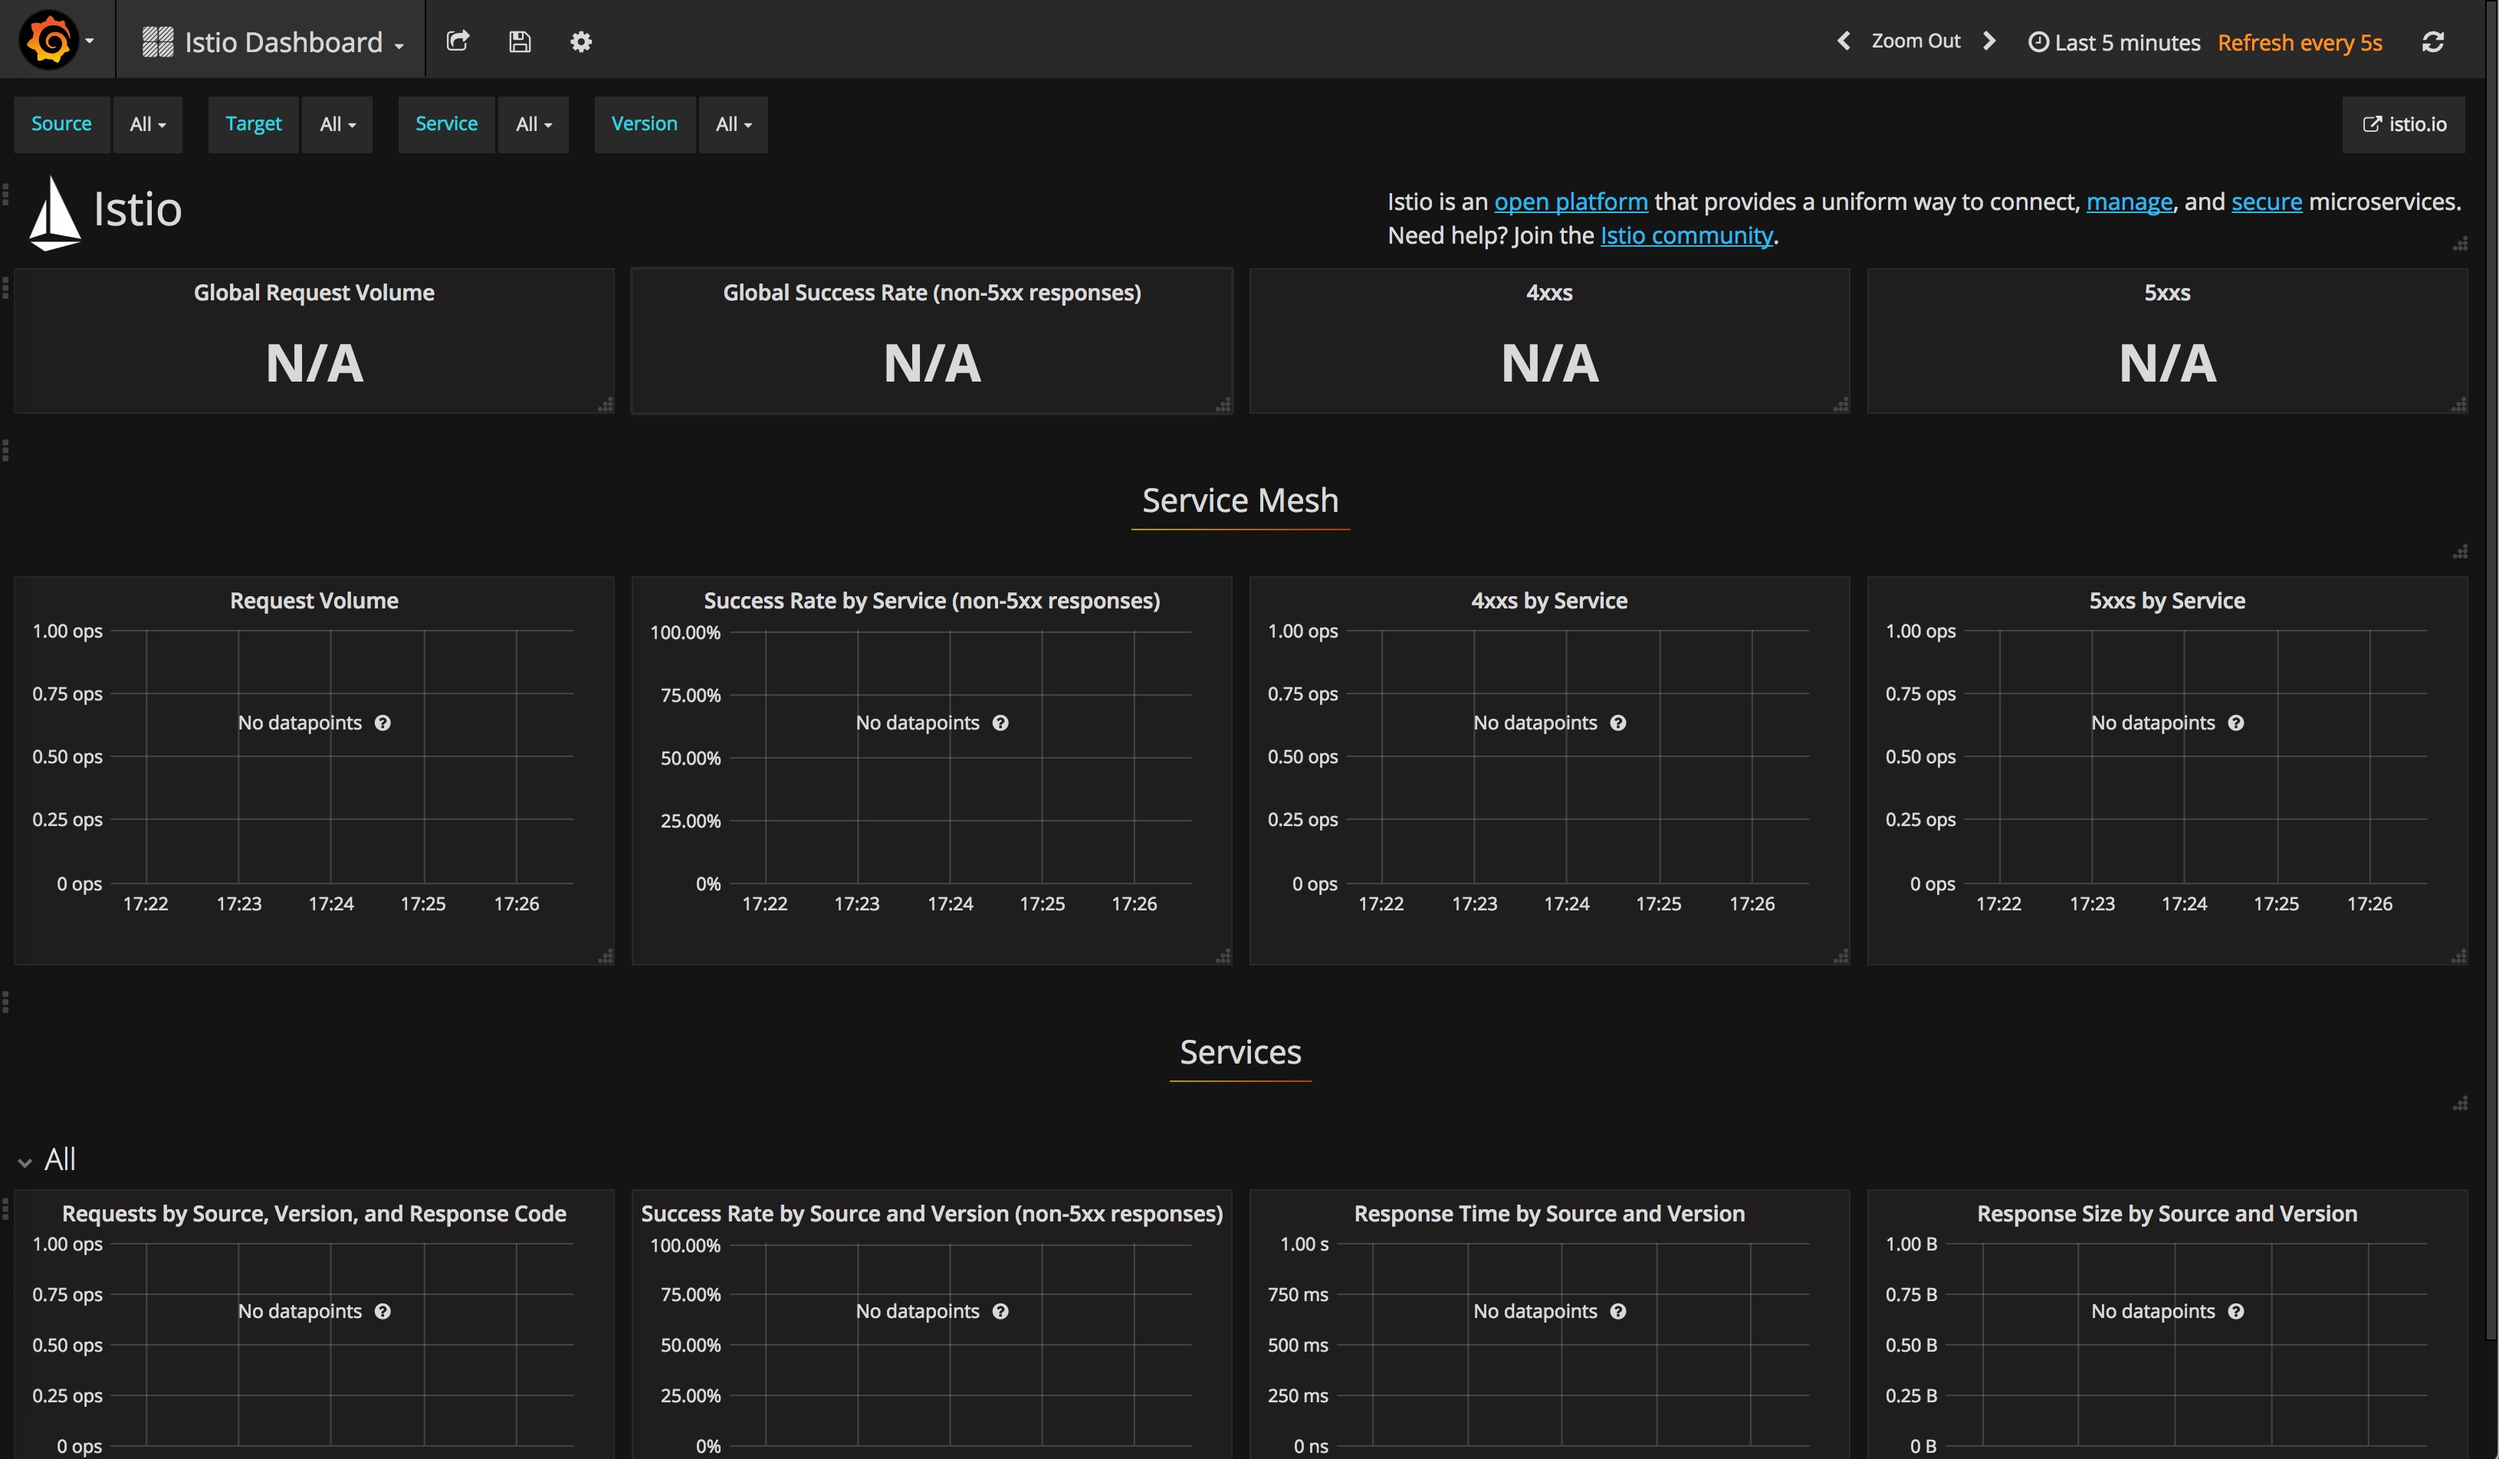
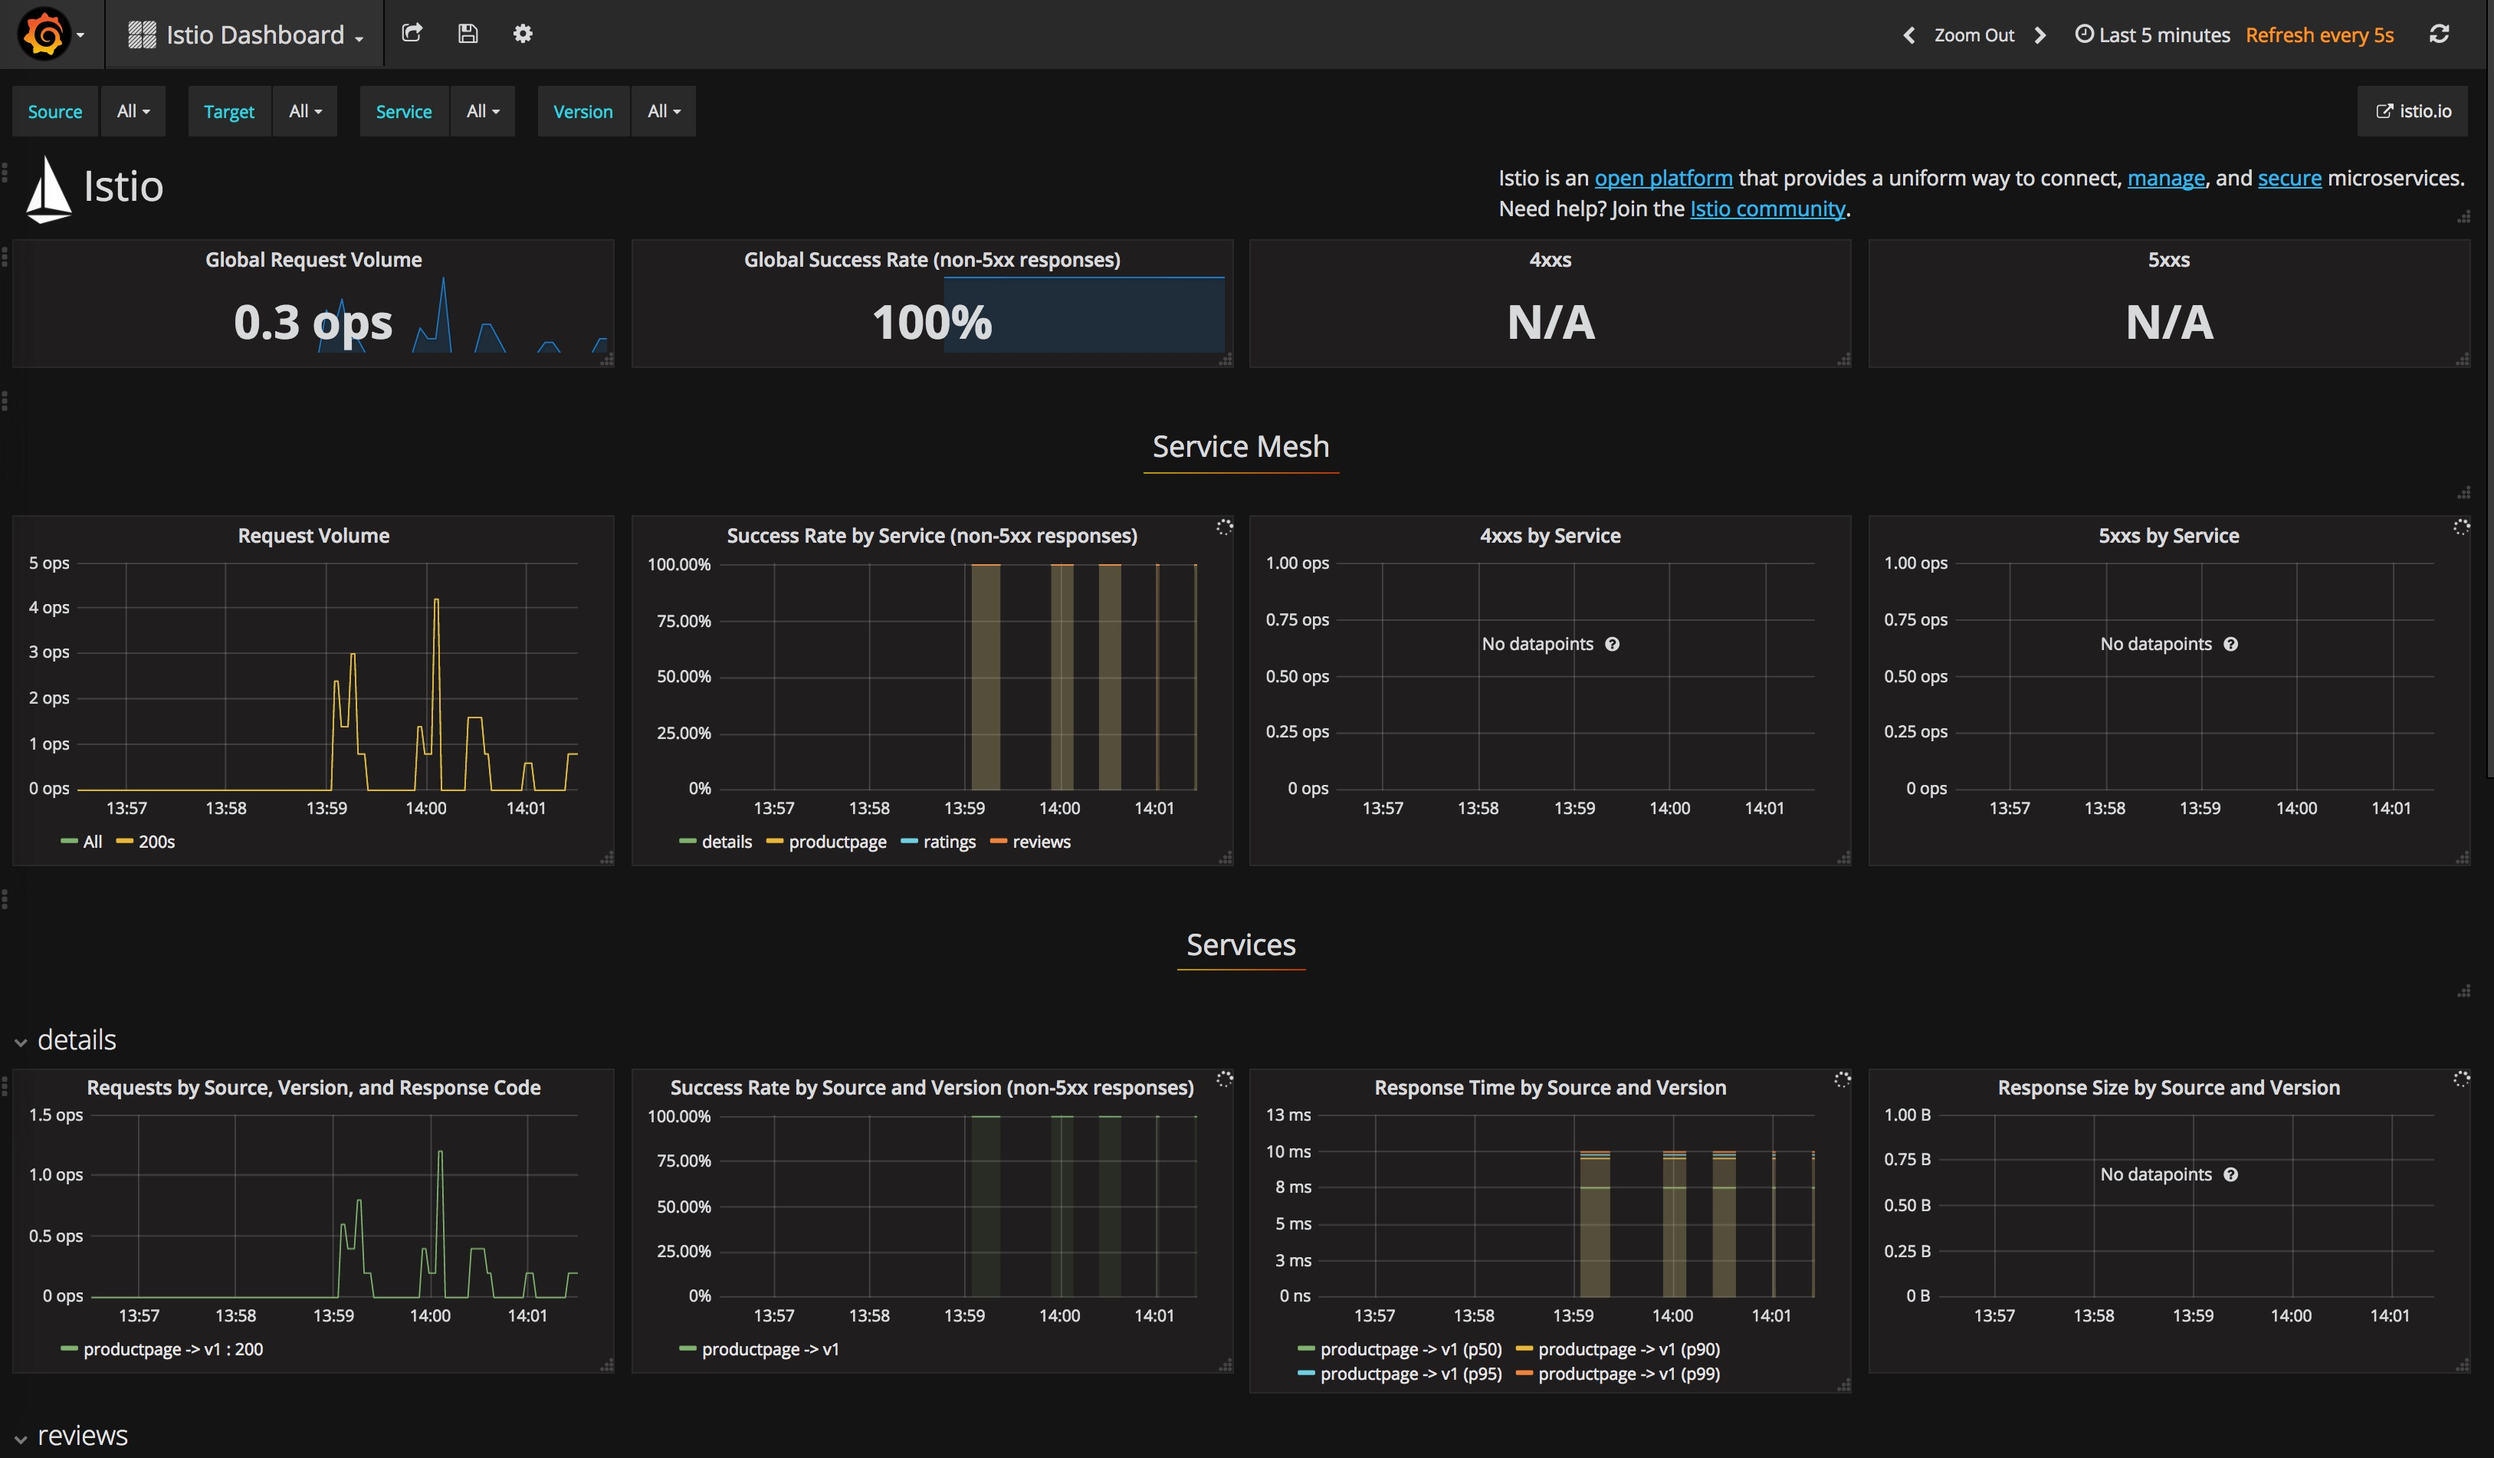
完善istio的安装过程
顺利安装完成并跑通bookinfo sample示例，可以在各个监控页面中看到结果。

diff --git a/usecases/istio-installation.md b/usecases/istio-installation.md
@@ -6,11 +6,9 @@
 
 ## 安装环境
 
-CentOS 7.3.1611
-
-Docker 1.12.6
-
-Kubernetes 1.6.0
+- CentOS 7.3.1611
+- Docker 1.12.6
+- Kubernetes 1.6.0
 
 ## 安装
 
@@ -164,7 +162,7 @@ kubectl apply -f install/kubernetes/addons/servicegraph.yaml
 kubectl apply -f install/kubernetes/addons/zipkin.yaml
 ```
 
-在traefik ingress中增加增加以上几个服务的配置。
+在traefik ingress中增加增加以上几个服务的配置，同时增加istio-ingress配置。
 
 ```Yaml
     - host: grafana.istio.io
@@ -195,21 +193,14 @@ kubectl apply -f install/kubernetes/addons/zipkin.yaml
           backend:
             serviceName: zipkin
             servicePort: 9411
+    - host: ingress.istio.io
+      http:
+        paths:
+        - path: /
+          backend:
+            serviceName: istio-ingress
+            servicePort: 80
 ```
-
-Grafana页面
-
-![Istio Grafana界面](../images/istio-grafana.jpg)
-
-Prometheus页面
-
-![Prometheus页面](../images/istio-prometheus.jpg)
-
-Zipkin页面
-
-![Zipkin页面](../images/istio-zipkin.jpg)
-
-
 
 ## 测试
 
@@ -226,6 +217,10 @@ istio/examples-bookinfo-reviews-v3
 istio/examples-bookinfo-productpage-v1
 ```
 
+该应用架构图如下：
+
+![BookInfo Sample应用架构图](../images/bookinfo-sample-arch.png)
+
 **部署应用**
 
 ```
@@ -234,9 +229,49 @@ kubectl create -f <(istioctl kube-inject -f samples/apps/bookinfo/bookinfo.yaml)
 
 `Istio kube-inject`命令会在`bookinfo.yaml`文件中增加Envoy sidecar信息。参考：https://istio.io/docs/reference/commands/istioctl.html#istioctl-kube-inject
 
-## 问题
+在本机的`/etc/hosts`下增加VIP节点和`ingress.istio.io`的对应信息。具体步骤参考：[边缘节点配置](../practice/edge-node-configuration.md)
 
-在bookinfo部署后没有在Grafana、Prometheus、ServiceGraph和Zipkin中看到结果。
+在浏览器中访问http://ingress.istio.io/productpage
+
+![BookInfo Sample页面](../images/bookinfo-sample.jpg)
+
+## 监控
+
+不断刷新productpage页面，将可以在以下几个监控中看到如下界面。
+
+**Grafana页面**
+
+http://grafana.istio.io
+
+![Istio Grafana界面](../images/istio-grafana.jpg)
+
+**Prometheus页面**
+
+http://prometheus.istio.io
+
+![Prometheus页面](../images/istio-prometheus.jpg)
+
+**Zipkin页面**
+
+http://zipkin.istio.io
+
+![Zipkin页面](../images/istio-zipkin.jpg)
+
+**ServiceGraph页面**
+
+http://servicegraph.istio.io/dotviz
+
+可以用来查看服务间的依赖关系。
+
+访问http://servicegraph.istio.io/graph可以获得json格式的返回结果。
+
+![ServiceGraph页面](../images/istio-servicegraph.jpg)
+
+## 更进一步
+
+BookInfo示例中有三个版本的`reviews`，可以使用istio来配置路由请求，将流量分摊到不同版本的应用上。参考[Configuring Request Routing](https://istio.io/docs/tasks/request-routing.html)。
+
+还有一些更高级的功能，我们后续将进一步探索。
 
 ## 参考
 
